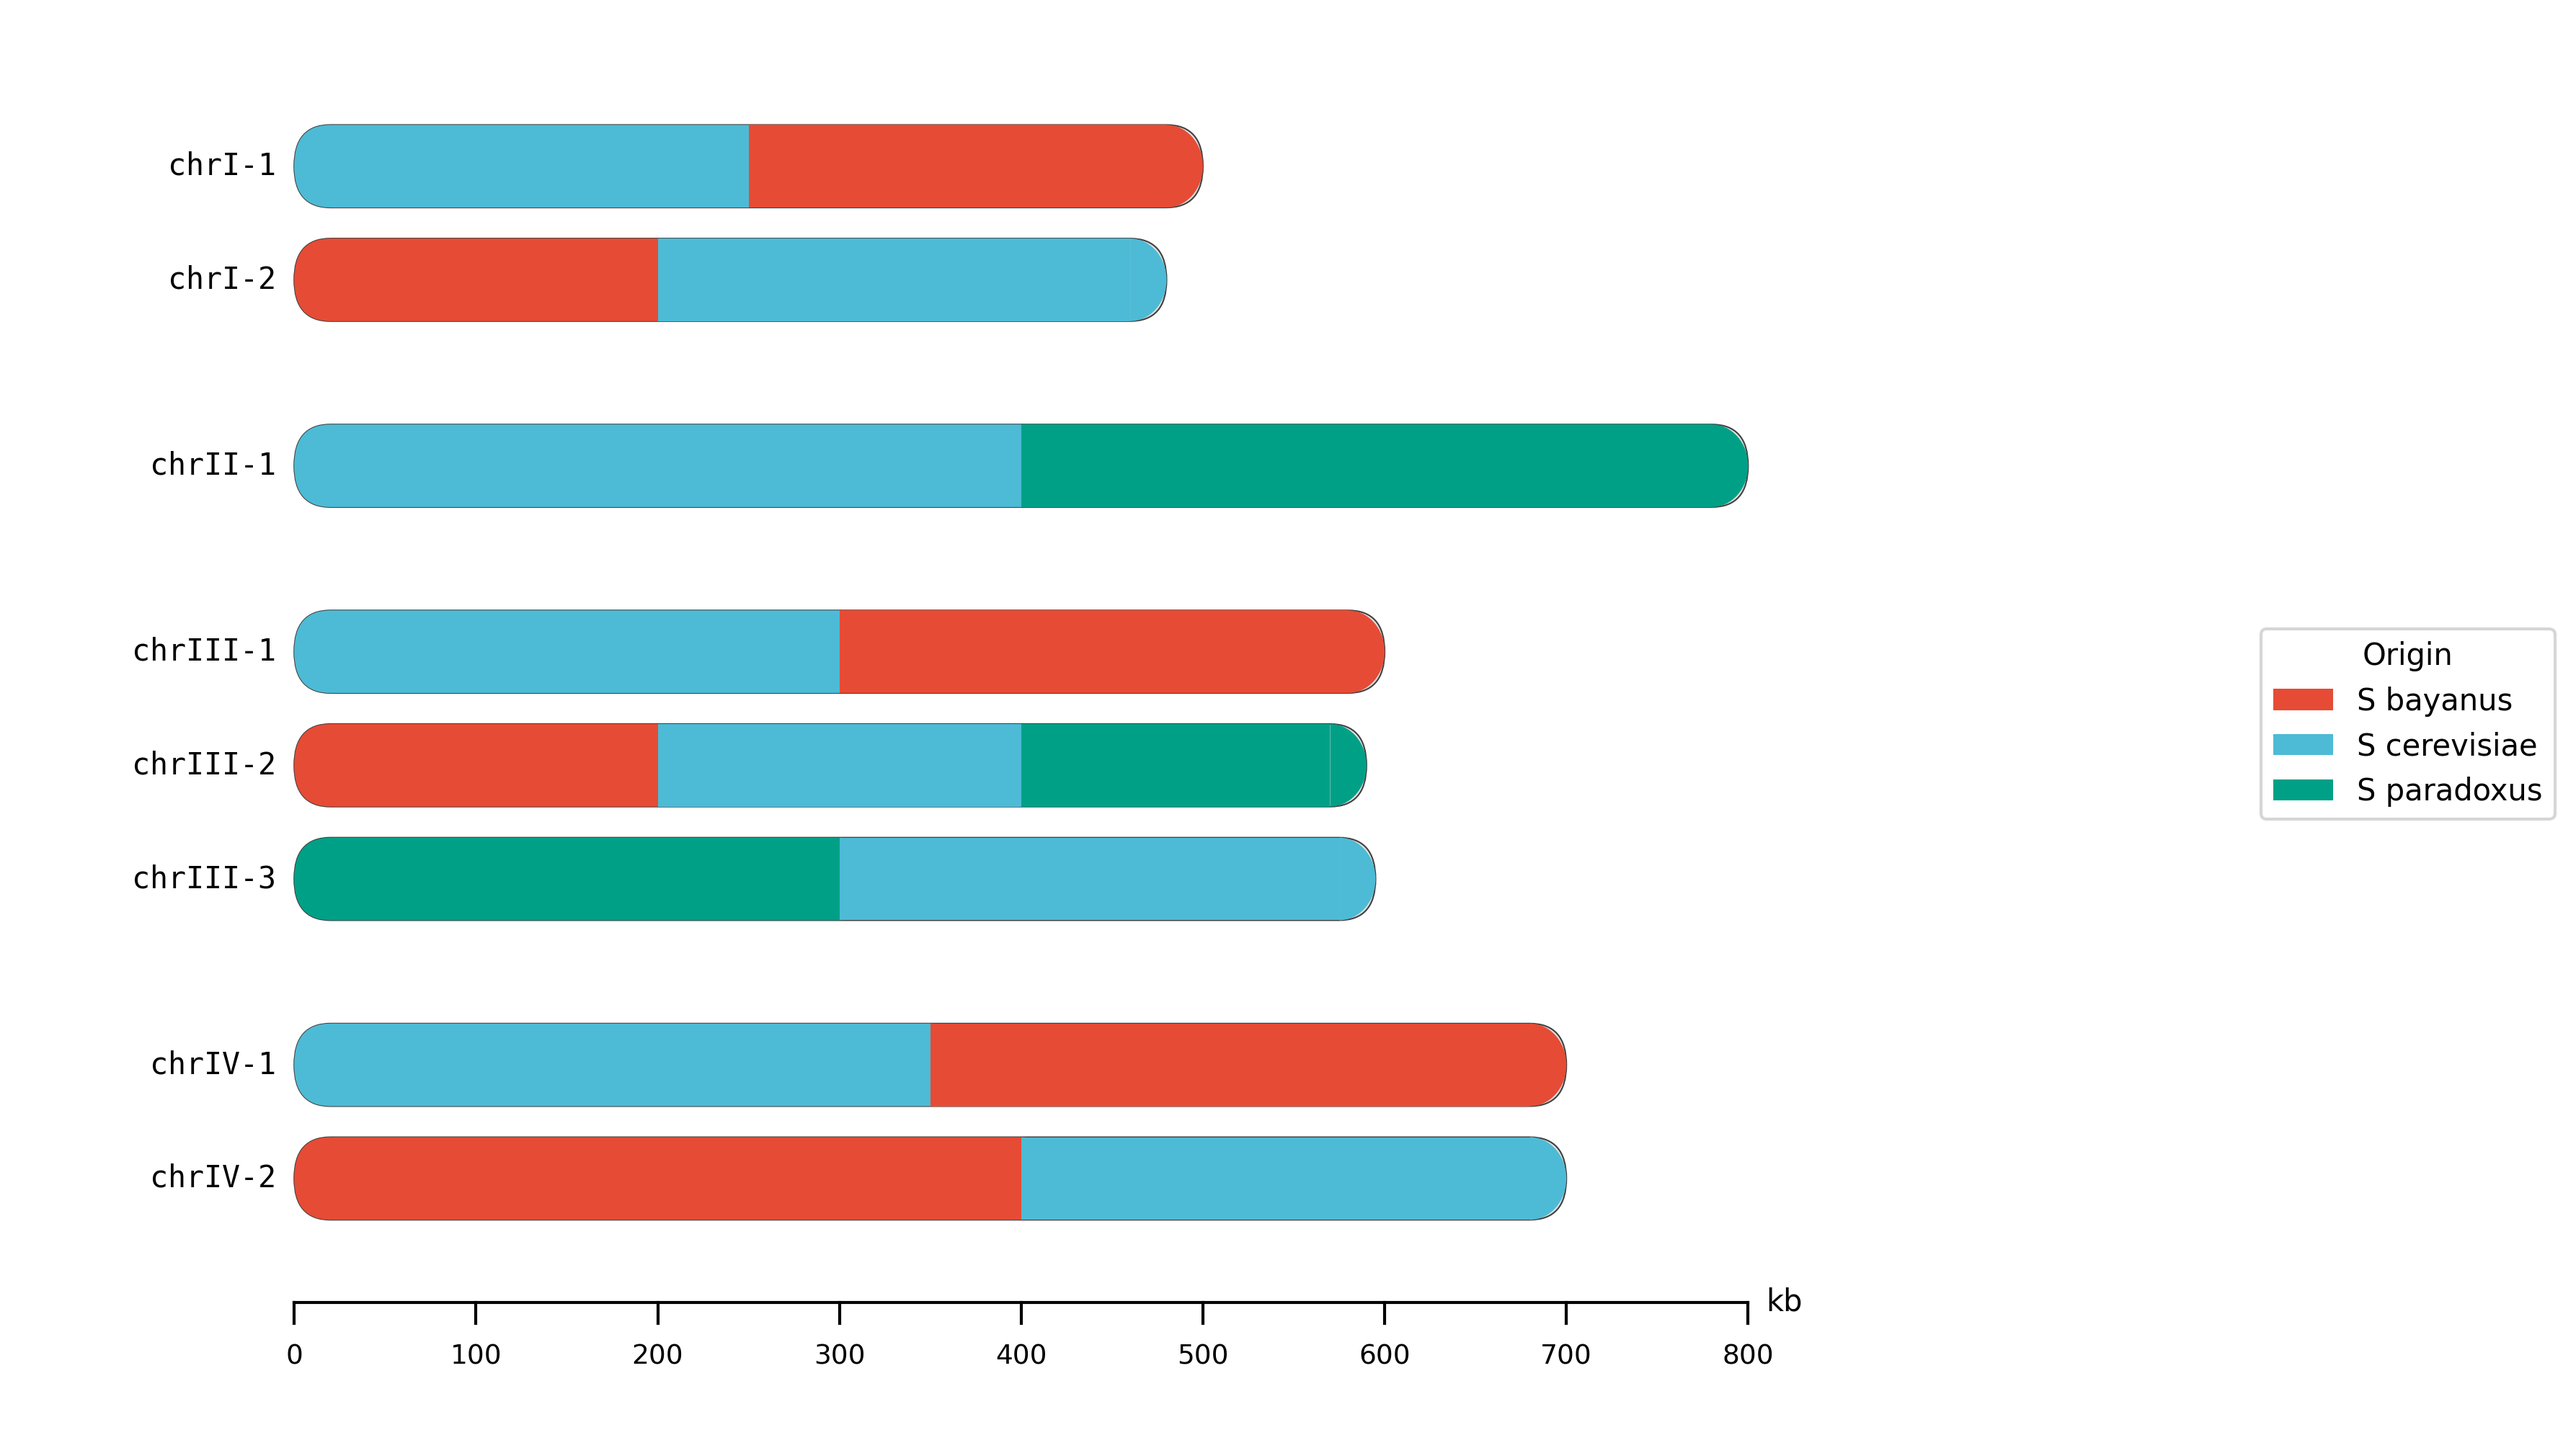
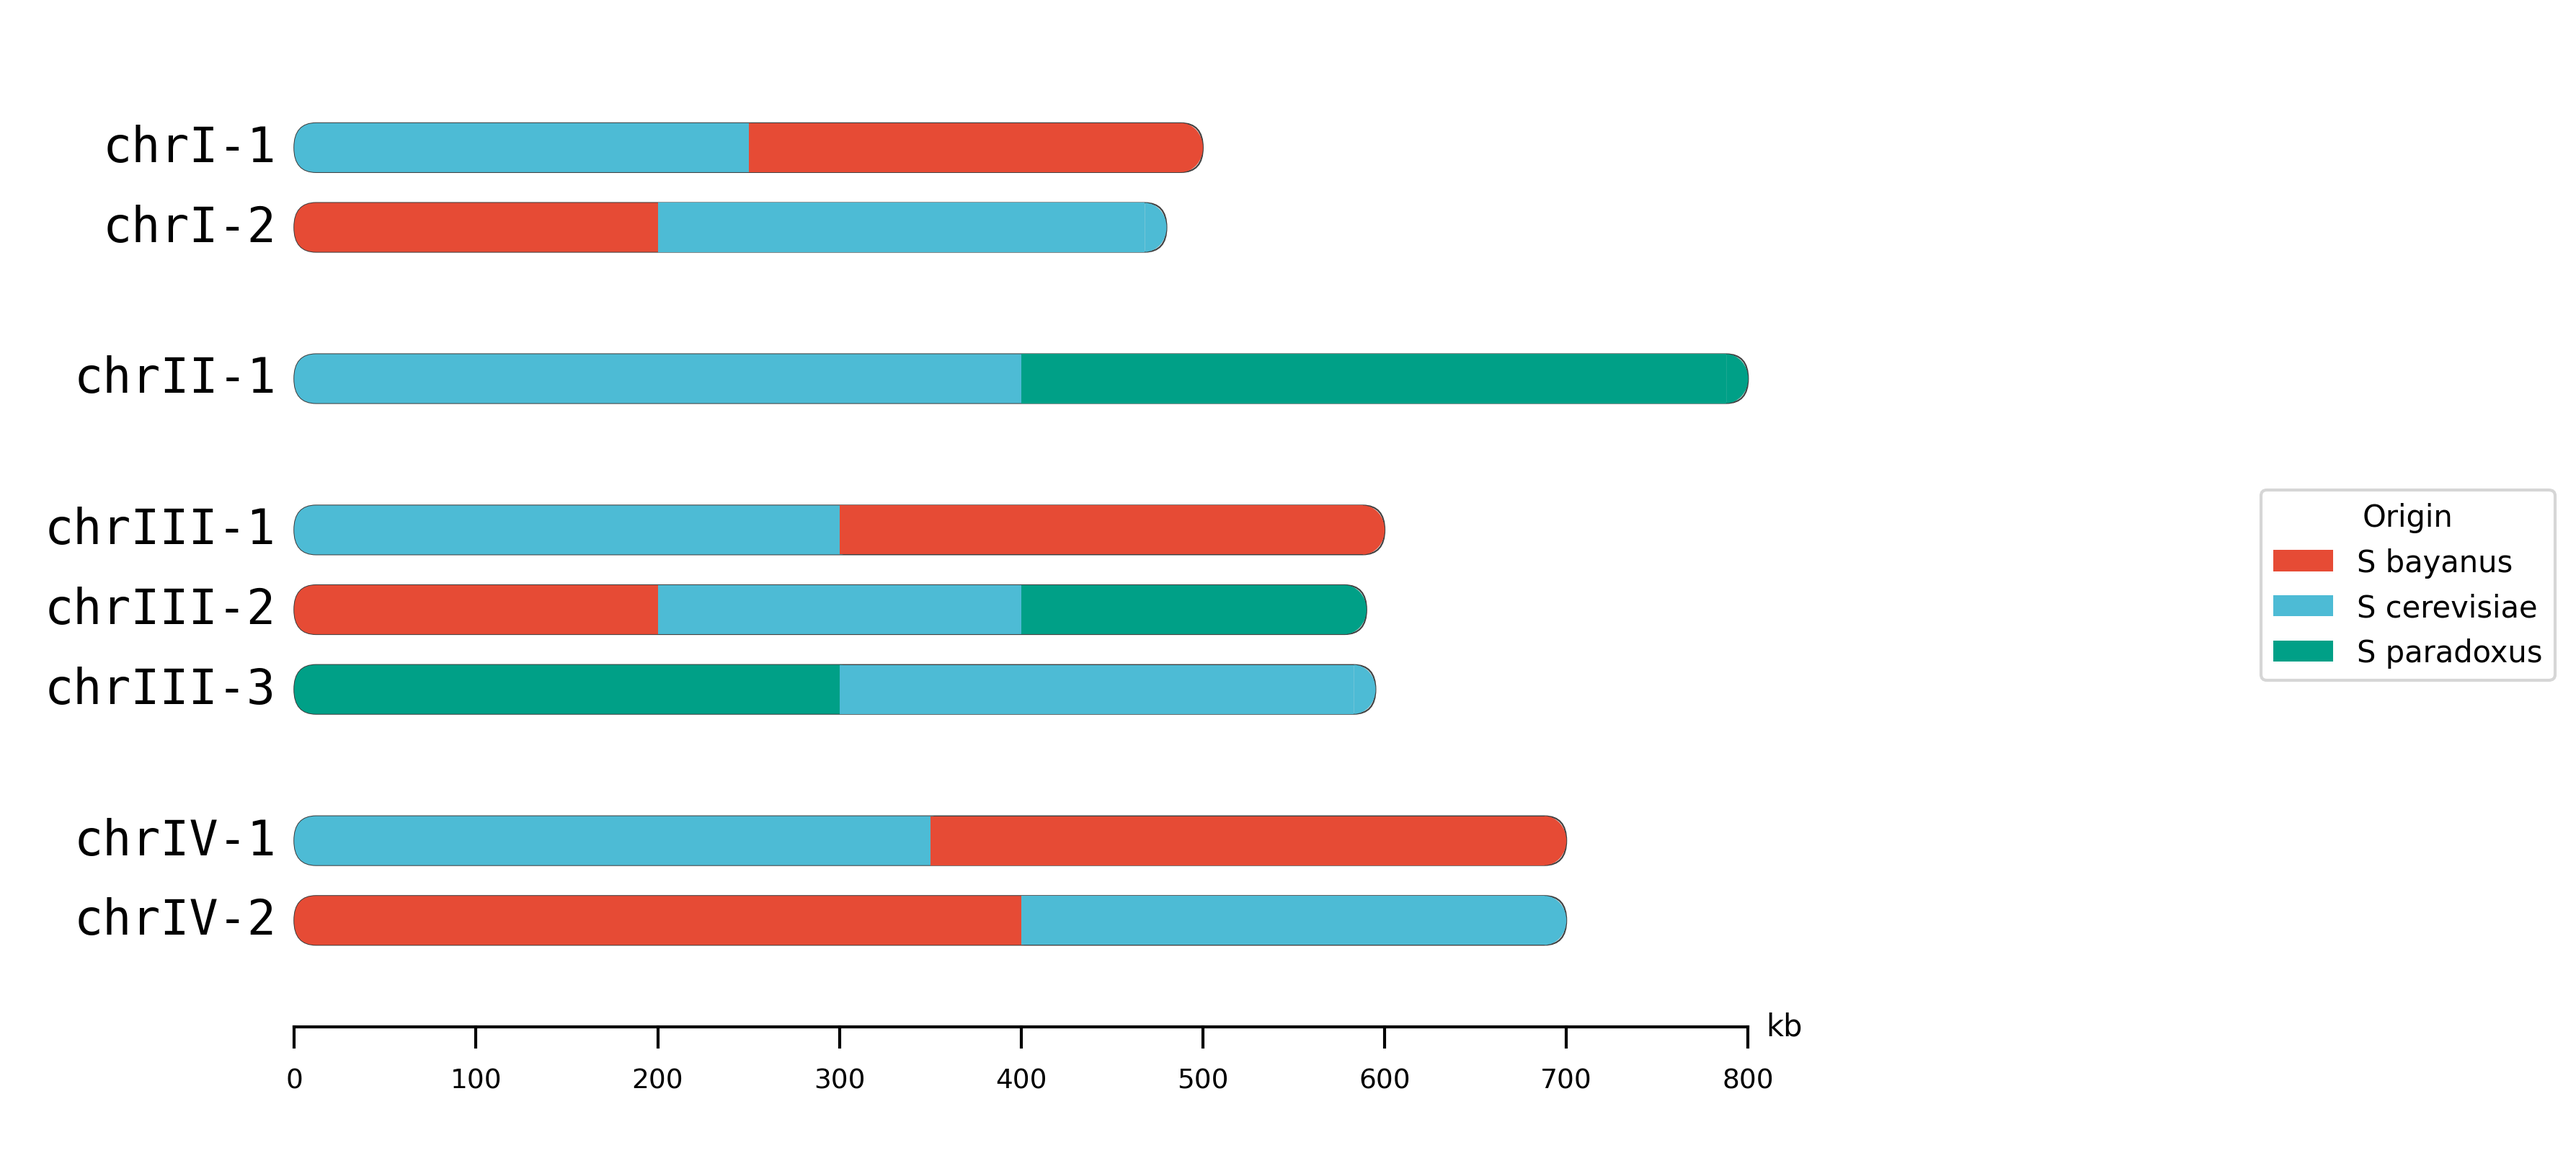
Regenerate example outputs with new defaults and add run.sh scripts
- Regenerate all example outputs with v0.2.1 defaults (chrom-height 0.24, font-size 16)
- Add run.sh scripts to each example for one-click execution
- Add output_with_labels.png to example5 showing labeled annotations
- Update README to show both labeled and unlabeled example5 outputs

🤖 Generated with [Claude Code](https://claude.com/claude-code)

diff --git a/README.md b/README.md
@@ -213,12 +213,20 @@ python ../../hybridchromomap.py -k karyotype.tsv -s segments.tsv -c colors.tsv -
 
 Demonstrates annotation markers (TF binding sites, enhancers, centromeres) with different shapes and automatic jitter for overlapping markers.
 
+**With labels:**
 ```bash
 cd examples/example5_annotations
-python ../../hybridchromomap.py -k karyotype.tsv -s segments.tsv -c colors.tsv -a annotations.tsv -o output.png
+python ../../hybridchromomap.py -k karyotype.tsv -s segments.tsv -c colors.tsv -a annotations.tsv -o output_with_labels.png
 ```
 
-![Example 5 Output](examples/example5_annotations/output.png)
+![Example 5 with labels](examples/example5_annotations/output_with_labels.png)
+
+**Without labels (markers only):**
+```bash
+python ../../hybridchromomap.py -k karyotype.tsv -s segments.tsv -c colors.tsv -a annotations.tsv -o output.png --no-labels
+```
+
+![Example 5 without labels](examples/example5_annotations/output.png)
 
 ## Output Formats
 
